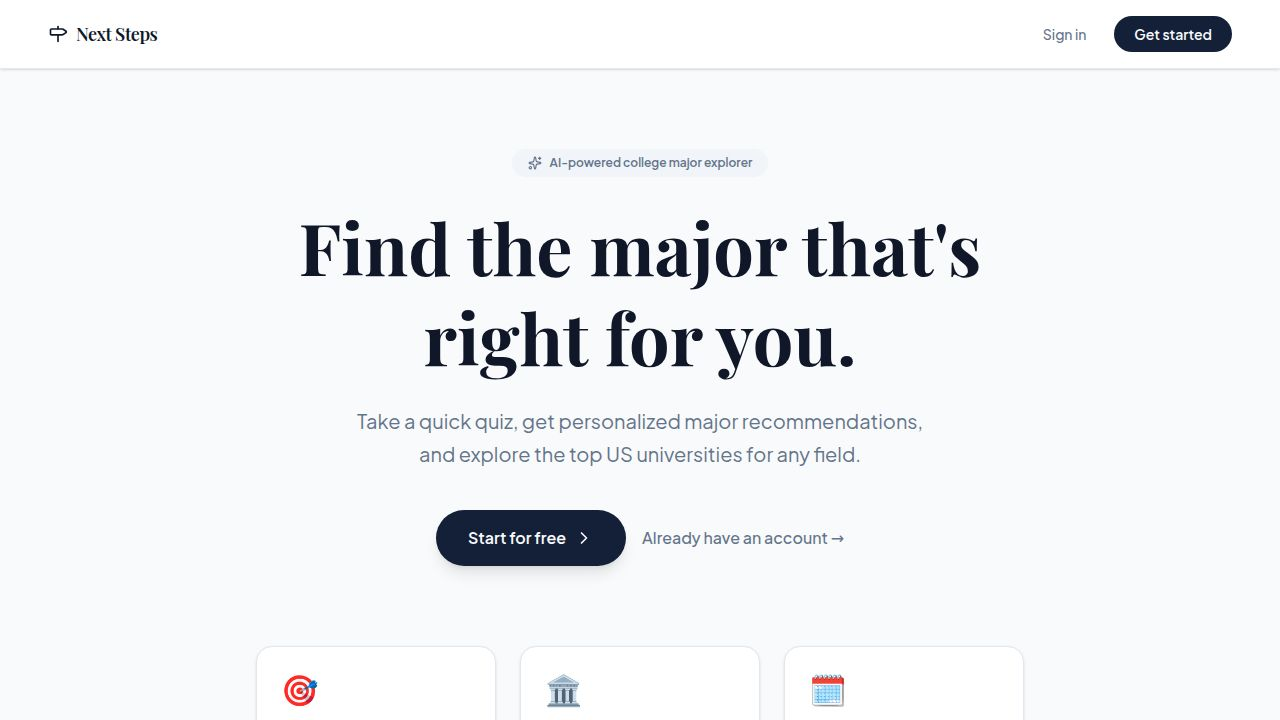
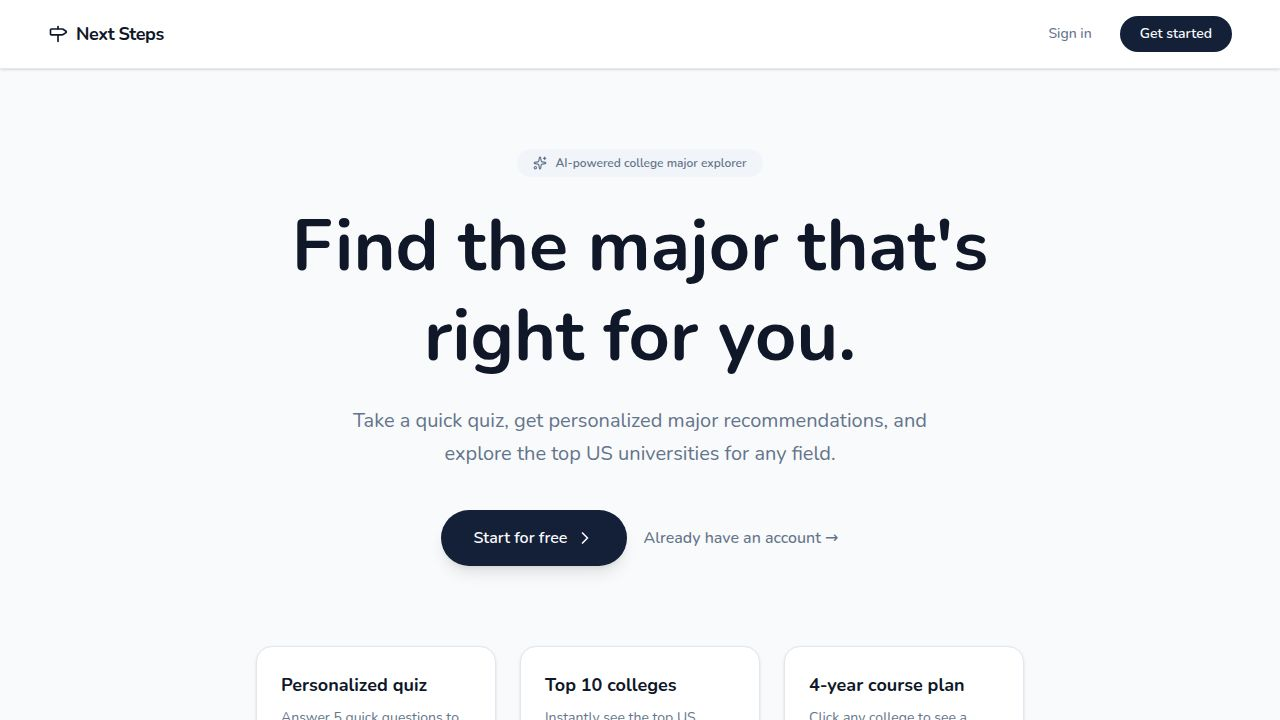
Update settings to a modern dialog with theme and profile management
Refactor SettingsDialog to use Radix UI, introduce theme options including system preference, and enhance accessibility with focus management and scroll locking.

Replit-Commit-Author: Agent
Replit-Commit-Session-Id: 3c072767-41e1-4235-b911-4469a09a3bc6
Replit-Commit-Checkpoint-Type: full_checkpoint
Replit-Commit-Event-Id: f42a958f-776b-4544-a4fc-b27cd802c476
Replit-Commit-Screenshot-Url: https://storage.googleapis.com/screenshot-production-us-central1/87e137e1-db88-4fb0-a659-84548e2fdc22/3c072767-41e1-4235-b911-4469a09a3bc6/KccV2Ze
Replit-Helium-Checkpoint-Created: true

diff --git a/artifacts/major-explorer/src/App.tsx b/artifacts/major-explorer/src/App.tsx
@@ -6,6 +6,7 @@ import { publishableKeyFromHost } from "@clerk/react/internal";
 import { shadcn } from "@clerk/themes";
 import { Toaster } from "@/components/ui/toaster";
 import { TooltipProvider } from "@/components/ui/tooltip";
+import { Dialog, DialogContent, DialogTitle, DialogDescription } from "@/components/ui/dialog";
 import { useLookupMajor, useGetMajorCurriculum, useChat, useGetCareers } from "@workspace/api-client-react";
 import type { College, CurriculumResponse, ChatMessage, CareerInfo } from "@workspace/api-client-react";
 import {
@@ -13,7 +14,7 @@ import {
   ChevronRight, ChevronDown, ChevronUp, Bookmark, BookmarkCheck,
   Trash2, SortAsc, MessageCircle, Send, Bot, Check, DollarSign,
   LogOut, User, ChevronLeft, Sparkles, TrendingUp, Award, ExternalLink, Briefcase,
-  Settings, SlidersHorizontal, RotateCcw, Sun, Moon
+  Settings, SlidersHorizontal, RotateCcw, Sun, Moon, Monitor, Palette, ShieldCheck, UserCog, type LucideIcon
 } from "lucide-react";
 import NotFound from "@/pages/not-found";
 
@@ -143,15 +144,21 @@ function loadProfile(): UserProfile {
 function persistProfile(data: UserProfile) { localStorage.setItem(PROFILE_KEY, JSON.stringify(data)); }
 
 const THEME_KEY = "next-steps-theme";
-type Theme = "light" | "dark";
+type Theme = "light" | "dark" | "system";
+function systemPrefersDark(): boolean {
+  return typeof window !== "undefined" && !!window.matchMedia?.("(prefers-color-scheme: dark)").matches;
+}
+function resolveTheme(theme: Theme): "light" | "dark" {
+  return theme === "system" ? (systemPrefersDark() ? "dark" : "light") : theme;
+}
 function loadTheme(): Theme {
-  if (typeof window === "undefined") return "light";
+  if (typeof window === "undefined") return "system";
   const saved = localStorage.getItem(THEME_KEY);
-  if (saved === "dark" || saved === "light") return saved;
-  return window.matchMedia?.("(prefers-color-scheme: dark)").matches ? "dark" : "light";
+  if (saved === "dark" || saved === "light" || saved === "system") return saved;
+  return "system";
 }
 function applyTheme(theme: Theme) {
-  document.documentElement.classList.toggle("dark", theme === "dark");
+  document.documentElement.classList.toggle("dark", resolveTheme(theme) === "dark");
 }
 function persistTheme(theme: Theme) { localStorage.setItem(THEME_KEY, theme); }
 if (typeof document !== "undefined") applyTheme(loadTheme());
@@ -1718,43 +1725,175 @@ function OnboardingProfile({ initial, onComplete, onSkip }: {
   );
 }
 
-function ProfileSettingsModal({ initial, onSave, onClose }: {
+type SettingsSection = "account" | "appearance" | "profile" | "data";
+const SETTINGS_SECTIONS: { id: SettingsSection; label: string; icon: LucideIcon }[] = [
+  { id: "account", label: "Account", icon: User },
+  { id: "appearance", label: "Appearance", icon: Palette },
+  { id: "profile", label: "Profile", icon: SlidersHorizontal },
+  { id: "data", label: "Data & privacy", icon: ShieldCheck },
+];
+const THEME_OPTIONS: { value: Theme; label: string; icon: LucideIcon }[] = [
+  { value: "light", label: "Light", icon: Sun },
+  { value: "dark", label: "Dark", icon: Moon },
+  { value: "system", label: "System", icon: Monitor },
+];
+
+function SettingsDialog({ initial, onSaveProfile, theme, onChangeTheme, onRetakeQuiz, onClose }: {
   initial: UserProfile;
-  onSave: (p: UserProfile) => void;
+  onSaveProfile: (p: UserProfile) => void;
+  theme: Theme;
+  onChangeTheme: (t: Theme) => void;
+  onRetakeQuiz: () => void;
   onClose: () => void;
 }) {
-  const state = useGpaGoals(initial);
+  const [section, setSection] = useState<SettingsSection>("account");
+  const { user } = useUser();
+  const { signOut, openUserProfile } = useClerk();
+  const gpaState = useGpaGoals(initial);
+  const [savedFlash, setSavedFlash] = useState(false);
+  const flashTimer = useRef<ReturnType<typeof setTimeout> | null>(null);
+
+  useEffect(() => () => { if (flashTimer.current) clearTimeout(flashTimer.current); }, []);
+
+  const displayName =
+    [user?.firstName, user?.lastName].filter(Boolean).join(" ") ||
+    user?.emailAddresses?.[0]?.emailAddress?.split("@")[0] ||
+    "Your account";
+  const email = user?.emailAddresses?.[0]?.emailAddress ?? "";
+  const initials = (user?.firstName?.[0] || "") + (user?.lastName?.[0] || "");
+
+  const handleSaveProfile = () => {
+    onSaveProfile(gpaState.profile);
+    setSavedFlash(true);
+    if (flashTimer.current) clearTimeout(flashTimer.current);
+    flashTimer.current = setTimeout(() => setSavedFlash(false), 1800);
+  };
+
   return (
-    <div
-      className="fixed inset-0 z-50 flex items-center justify-center p-4 bg-black/50 backdrop-blur-sm animate-in fade-in duration-200"
-      onClick={onClose}
-    >
-      <div
-        className="bg-card rounded-3xl border border-border shadow-2xl w-full max-w-md p-7 animate-in zoom-in-95 duration-200"
-        onClick={(e) => e.stopPropagation()}
-      >
-        <div className="flex items-center justify-between mb-5">
-          <h2 className="text-xl font-serif font-bold text-foreground">Your profile</h2>
-          <button onClick={onClose} className="w-8 h-8 rounded-full hover:bg-muted flex items-center justify-center text-muted-foreground hover:text-foreground transition-colors" title="Close">
-            <X className="w-4 h-4" />
-          </button>
+    <Dialog open onOpenChange={(o) => { if (!o) onClose(); }}>
+      <DialogContent className="max-w-3xl w-full h-[600px] max-h-[88vh] p-0 gap-0 flex flex-col overflow-hidden rounded-3xl sm:rounded-3xl bg-card">
+        <DialogDescription className="sr-only">Manage your account, appearance, profile, and data settings.</DialogDescription>
+        <div className="flex items-center px-6 py-4 border-b border-border shrink-0">
+          <DialogTitle className="text-lg font-bold text-foreground">Settings</DialogTitle>
         </div>
-        <GpaGoalsControls state={state} />
-        <div className="flex items-center gap-3 mt-6">
-          <button onClick={onClose} className="flex-1 px-4 py-2.5 rounded-full border border-border text-sm font-semibold text-muted-foreground hover:bg-muted transition-colors">
-            Cancel
-          </button>
-          <button
-            onClick={() => { onSave(state.profile); onClose(); }}
-            disabled={!state.gpaValid}
-            className="flex-1 px-4 py-2.5 rounded-full bg-primary text-primary-foreground text-sm font-semibold hover:bg-primary/90 transition-colors disabled:opacity-40 disabled:cursor-not-allowed"
-            data-testid="button-save-profile-settings"
-          >
-            Save
-          </button>
+
+        <div className="flex flex-1 min-h-0 flex-col sm:flex-row">
+          <aside className="shrink-0 border-b sm:border-b-0 sm:border-r border-border p-3 sm:w-52">
+            <nav className="flex sm:flex-col gap-1 overflow-x-auto no-scrollbar">
+              {SETTINGS_SECTIONS.map(({ id, label, icon: Icon }) => {
+                const active = section === id;
+                return (
+                  <button
+                    key={id}
+                    onClick={() => setSection(id)}
+                    className={`flex items-center gap-2.5 px-3 py-2 rounded-xl text-sm font-medium transition-colors shrink-0 whitespace-nowrap ${active ? "bg-primary text-primary-foreground" : "text-muted-foreground hover:text-foreground hover:bg-muted"}`}
+                  >
+                    <Icon className="w-4 h-4" /> {label}
+                  </button>
+                );
+              })}
+            </nav>
+          </aside>
+
+          <div className="flex-1 min-h-0 overflow-y-auto p-6">
+            {section === "account" && (
+              <div className="space-y-6">
+                <div>
+                  <h3 className="text-base font-bold text-foreground mb-1">Account</h3>
+                  <p className="text-sm text-muted-foreground">Manage your account and sign-in details.</p>
+                </div>
+                <div className="flex items-center gap-4 p-4 rounded-2xl border border-border bg-background">
+                  <div className="w-12 h-12 rounded-full bg-primary text-primary-foreground flex items-center justify-center text-base font-bold shrink-0">
+                    {initials || <User className="w-5 h-5" />}
+                  </div>
+                  <div className="min-w-0">
+                    <p className="text-sm font-semibold text-foreground truncate">{displayName}</p>
+                    {email && <p className="text-sm text-muted-foreground truncate">{email}</p>}
+                  </div>
+                </div>
+                <div className="space-y-2">
+                  <button onClick={() => openUserProfile()} className="w-full flex items-center justify-between gap-3 px-4 py-3 rounded-xl border border-border text-sm font-medium text-foreground hover:bg-muted transition-colors">
+                    <span className="flex items-center gap-3"><UserCog className="w-4 h-4 text-muted-foreground" /> Manage account</span>
+                    <ChevronRight className="w-4 h-4 text-muted-foreground" />
+                  </button>
+                  <button onClick={() => signOut({ redirectUrl: basePath || "/" })} className="w-full flex items-center gap-3 px-4 py-3 rounded-xl border border-border text-sm font-medium text-destructive hover:bg-destructive/10 transition-colors">
+                    <LogOut className="w-4 h-4" /> Sign out
+                  </button>
+                </div>
+              </div>
+            )}
+
+            {section === "appearance" && (
+              <div className="space-y-6">
+                <div>
+                  <h3 className="text-base font-bold text-foreground mb-1">Appearance</h3>
+                  <p className="text-sm text-muted-foreground">Customize how Next Steps looks on this device.</p>
+                </div>
+                <div>
+                  <span className="block text-sm font-semibold text-foreground mb-3">Theme</span>
+                  <div className="grid grid-cols-3 gap-3">
+                    {THEME_OPTIONS.map(({ value, label, icon: Icon }) => {
+                      const active = theme === value;
+                      return (
+                        <button
+                          key={value}
+                          onClick={() => onChangeTheme(value)}
+                          className={`flex flex-col items-center gap-2 px-3 py-4 rounded-2xl border-2 text-sm font-medium transition-colors ${active ? "border-primary bg-primary/5 text-foreground" : "border-border text-muted-foreground hover:border-muted-foreground hover:text-foreground"}`}
+                        >
+                          <Icon className="w-5 h-5" />
+                          {label}
+                          {active && <span className="text-[11px] font-semibold text-primary flex items-center gap-1"><Check className="w-3 h-3" /> Selected</span>}
+                        </button>
+                      );
+                    })}
+                  </div>
+                  <p className="text-xs text-muted-foreground mt-3">“System” follows your device's light or dark setting automatically.</p>
+                </div>
+              </div>
+            )}
+
+            {section === "profile" && (
+              <div className="space-y-6">
+                <div>
+                  <h3 className="text-base font-bold text-foreground mb-1">Profile</h3>
+                  <p className="text-sm text-muted-foreground">Used to estimate your Reach / Match / Safety colleges.</p>
+                </div>
+                <GpaGoalsControls state={gpaState} />
+                <div className="pt-1">
+                  <button
+                    onClick={handleSaveProfile}
+                    disabled={!gpaState.gpaValid}
+                    className="flex items-center gap-2 px-5 py-2.5 rounded-full bg-primary text-primary-foreground text-sm font-semibold hover:bg-primary/90 transition-colors disabled:opacity-40 disabled:cursor-not-allowed"
+                    data-testid="button-save-profile-settings"
+                  >
+                    {savedFlash ? <><Check className="w-4 h-4" /> Saved</> : "Save changes"}
+                  </button>
+                </div>
+              </div>
+            )}
+
+            {section === "data" && (
+              <div className="space-y-6">
+                <div>
+                  <h3 className="text-base font-bold text-foreground mb-1">Data &amp; privacy</h3>
+                  <p className="text-sm text-muted-foreground">Your data stays on this device.</p>
+                </div>
+                <div className="flex items-start gap-3 p-4 rounded-2xl border border-border bg-background">
+                  <ShieldCheck className="w-5 h-5 text-muted-foreground shrink-0 mt-0.5" />
+                  <p className="text-sm text-muted-foreground">Your GPA, goals, saved majors and colleges are stored only in this browser. They're never sent to our servers or used to identify you.</p>
+                </div>
+                <div className="space-y-2">
+                  <button onClick={() => { onRetakeQuiz(); onClose(); }} className="w-full flex items-center justify-between gap-3 px-4 py-3 rounded-xl border border-border text-sm font-medium text-foreground hover:bg-muted transition-colors">
+                    <span className="flex items-center gap-3"><RotateCcw className="w-4 h-4 text-muted-foreground" /> Retake the interest quiz</span>
+                    <ChevronRight className="w-4 h-4 text-muted-foreground" />
+                  </button>
+                </div>
+              </div>
+            )}
+          </div>
         </div>
-      </div>
-    </div>
+      </DialogContent>
+    </Dialog>
   );
 }
 
@@ -1934,14 +2073,24 @@ function AppShell() {
   const [profile, setProfile] = useState<UserProfile>(loadProfile);
   const [showSettings, setShowSettings] = useState(false);
   const [theme, setTheme] = useState<Theme>(loadTheme);
-  const toggleTheme = () => {
-    setTheme((prev) => {
-      const next = prev === "dark" ? "light" : "dark";
-      persistTheme(next);
-      applyTheme(next);
-      return next;
-    });
-  };
+  const [resolvedTheme, setResolvedTheme] = useState<"light" | "dark">(() => resolveTheme(loadTheme()));
+  const changeTheme = useCallback((next: Theme) => {
+    setTheme(next);
+    persistTheme(next);
+    applyTheme(next);
+    setResolvedTheme(resolveTheme(next));
+  }, []);
+  const toggleTheme = () => changeTheme(resolvedTheme === "dark" ? "light" : "dark");
+  useEffect(() => {
+    if (theme !== "system") return;
+    const mq = window.matchMedia("(prefers-color-scheme: dark)");
+    const handler = () => {
+      applyTheme("system");
+      setResolvedTheme(systemPrefersDark() ? "dark" : "light");
+    };
+    mq.addEventListener("change", handler);
+    return () => mq.removeEventListener("change", handler);
+  }, [theme]);
   const [quizState, setQuizState] = useState<"quiz" | "profile" | "results" | "done">(() =>
     localStorage.getItem(QUIZ_DONE_KEY) ? "done" : "quiz"
   );
@@ -2063,15 +2212,15 @@ function AppShell() {
             <button
               onClick={toggleTheme}
               className="w-9 h-9 shrink-0 rounded-full text-muted-foreground hover:text-foreground hover:bg-muted flex items-center justify-center transition-colors"
-              title={theme === "dark" ? "Switch to light mode" : "Switch to dark mode"}
+              title={resolvedTheme === "dark" ? "Switch to light mode" : "Switch to dark mode"}
               data-testid="button-toggle-theme"
             >
-              {theme === "dark" ? <Sun className="w-4 h-4" /> : <Moon className="w-4 h-4" />}
+              {resolvedTheme === "dark" ? <Sun className="w-4 h-4" /> : <Moon className="w-4 h-4" />}
             </button>
             <button
               onClick={() => setShowSettings(true)}
               className="w-9 h-9 shrink-0 rounded-full text-muted-foreground hover:text-foreground hover:bg-muted flex items-center justify-center transition-colors"
-              title="Profile & GPA"
+              title="Settings"
               data-testid="button-open-settings"
             >
               <Settings className="w-4 h-4" />
@@ -2115,7 +2264,14 @@ function AppShell() {
       )}
 
       {showSettings && (
-        <ProfileSettingsModal initial={profile} onSave={handleSaveProfile} onClose={() => setShowSettings(false)} />
+        <SettingsDialog
+          initial={profile}
+          onSaveProfile={handleSaveProfile}
+          theme={theme}
+          onChangeTheme={changeTheme}
+          onRetakeQuiz={handleRetakeQuiz}
+          onClose={() => setShowSettings(false)}
+        />
       )}
       <ChatWidget />
     </div>